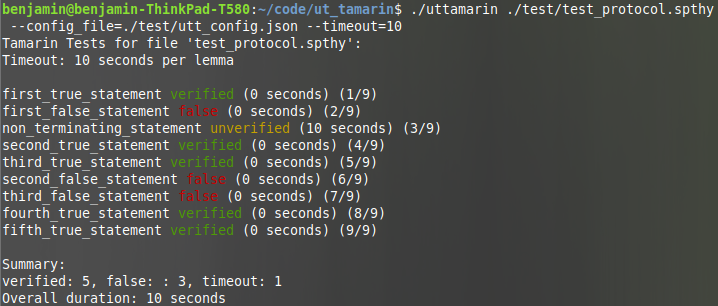
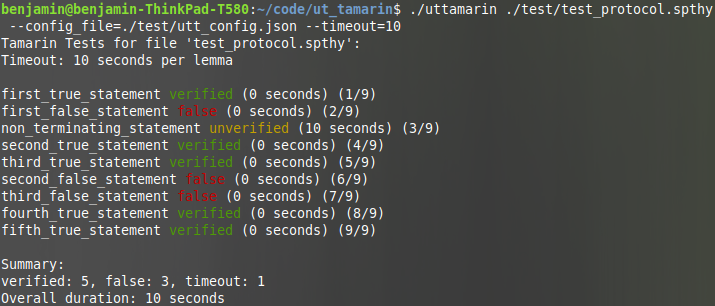
New screenshot and text formatting.

diff --git a/src/app.cc b/src/app.cc
@@ -132,7 +132,7 @@ void App::PrintFooter(int true_lemmas, int false_lemmas,
   *output_writer_ << "\n"
     << "Summary: " << "\n"
     << "verified: " << true_lemmas
-    << ", false: " << ": " << false_lemmas
+    << ", false: " << false_lemmas
     << ", timeout: " << unknown_lemmas
     << "\n"
     << "Overall duration: " << ToSecondsString(overall_duration);
